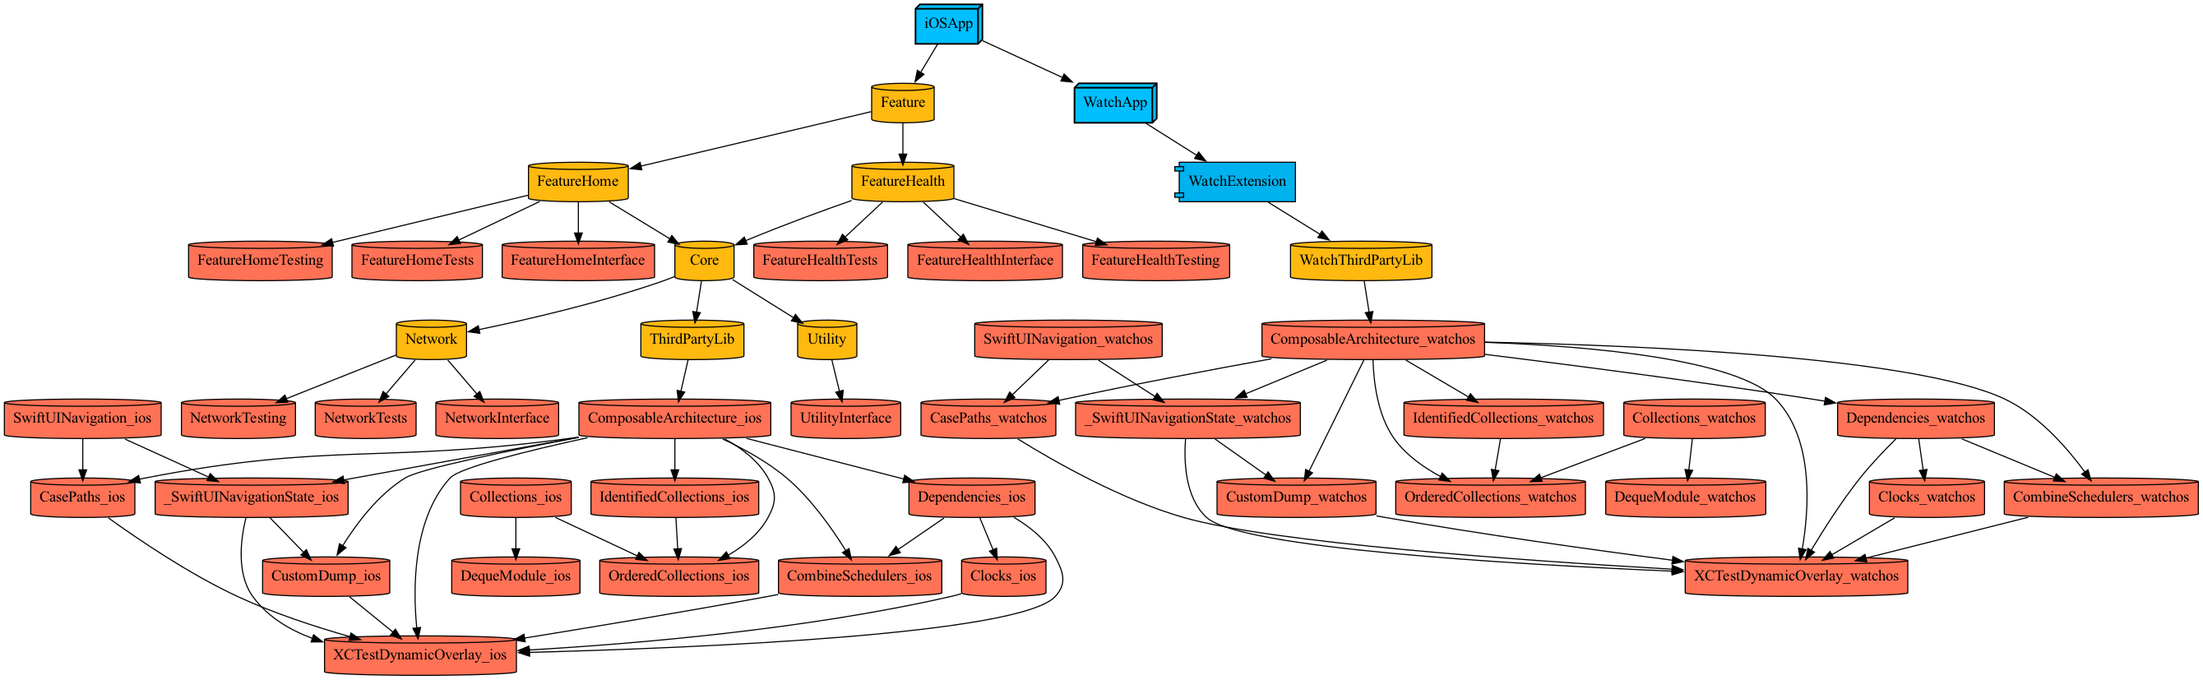
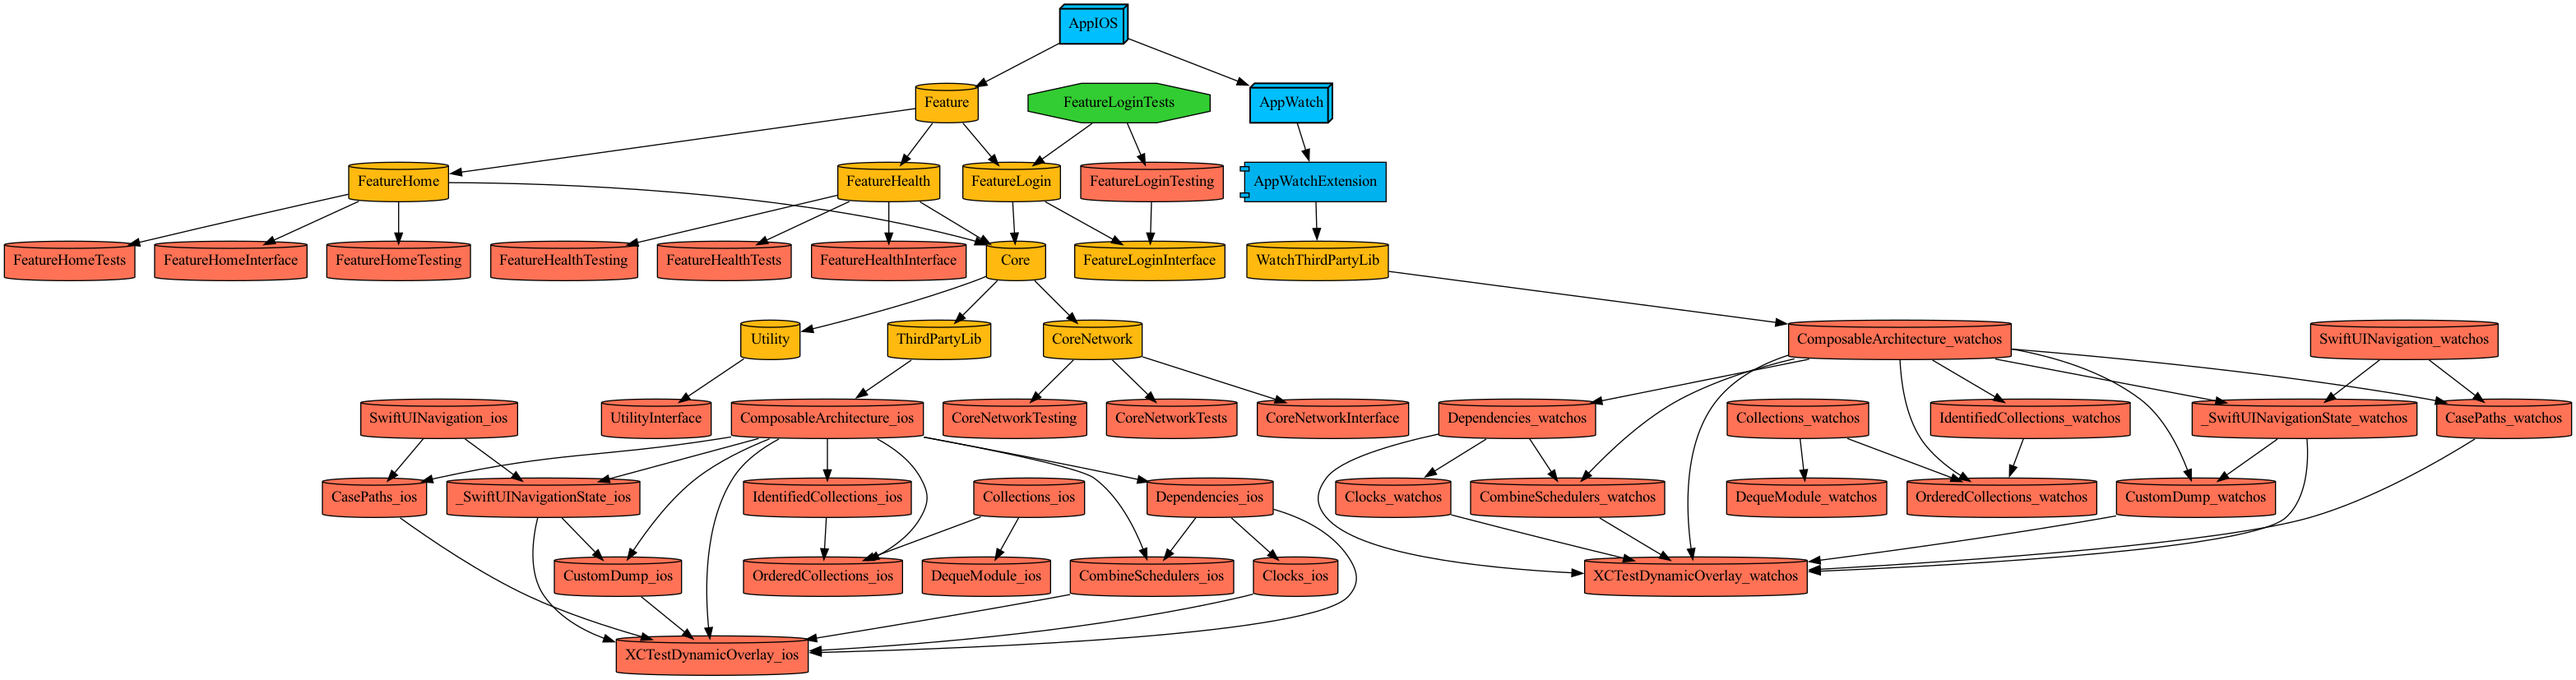
feat: module plugin으로 관리

Changed region(s): [[0.0, 0.0907, 1.0, 0.9976], [0.4028, 0.0, 0.4647, 0.0907], [0.1549, 0.4534, 0.2169, 0.5441]]

diff --git a/gather-move/Plugins/DependencyPlugin/ProjectDescriptionHelpers/GeneratedModules.swift b/gather-move/Plugins/DependencyPlugin/ProjectDescriptionHelpers/GeneratedModules.swift
@@ -6,13 +6,106 @@
 //
 
 import Foundation
+import ProjectDescription
 
-public enum AppModule: String, CaseIterable {
-  case iOS
-  case WatchOS
+public enum MicroModuleType: String {
+    case Source
+    case Interface
+    case Tests
+    case Testing
 }
 
-public enum CoreModule: String, CaseIterable {
-    case Network
-    case Utility
+public protocol ModuleType {
+    var moduleName: String { get }
+    associatedtype TargetType: RawRepresentable where TargetType.RawValue: StringProtocol
+    
+    func path(target: TargetType?, micro: MicroModuleType) -> Path
+    func name(target: TargetType?, micro: MicroModuleType) -> String
+    func bundleId(target: TargetType?, micro: MicroModuleType) -> String
+    func targetDependency(target: TargetType?, micro: MicroModuleType) -> TargetDependency
 }
+
+extension ModuleType {
+    public func path(target: TargetType? = nil, micro: MicroModuleType = .Source) -> Path {
+        guard let target = target else {
+            return .relativeToRoot("Projects/\(moduleName)")
+        }
+        
+        switch micro {
+        case .Source: /// ex: Projects/Feature/Health
+            return .relativeToRoot("Projects/\(moduleName)/\(target.rawValue)")
+            
+        default: /// ex: Projects/Feature/Health/Interface
+            return .relativeToRoot("Projects/\(moduleName)/\(target.rawValue)/\(micro.rawValue)")
+        }
+    }
+    
+    public func name(target: TargetType? = nil, micro: MicroModuleType = .Source) -> String {
+        guard let target = target else {
+            return "\(moduleName)" /// ex: Feature
+        }
+        
+        switch micro {
+        case .Source: /// ex: FeatureHealth
+            return "\(moduleName)\(target.rawValue)"
+            
+        default: /// ex: FeatureHealthInterface
+            return "\(moduleName)\(target.rawValue)\(micro.rawValue)"
+        }
+    }
+    
+    public func bundleId(target: TargetType?, micro: MicroModuleType = .Source) -> String {
+        guard let target = target else {
+            return "com.82.team.gathermove.\(self.name(target: target, micro: micro))"
+        }
+        
+        switch micro {
+        case .Source:
+            return "com.82team.gathermove.\(moduleName.lowercased()).\(target.rawValue.lowercased())"
+            
+        default:
+            return "com.82team.gathermove.\(moduleName.lowercased()).\(target.rawValue.lowercased()).\(micro.rawValue.lowercased())"
+        }
+    }
+    
+    // TODO: TargetDependency의 Extension으로 이동
+    public func targetDependency(target: TargetType? = nil, micro: MicroModuleType = .Source) -> TargetDependency {
+        guard let target = target else {
+            return .project(
+                target: self.name(target: target, micro: micro),
+                path: self.path(target: target, micro: micro)
+            )
+        }
+        
+        switch micro {
+        case .Source:
+            return .target(name: "\(moduleName)\(target.rawValue)")
+            
+        default:
+            return .target(name: "\(moduleName)\(target.rawValue)\(micro.rawValue)")
+        }
+    }
+}
+
+public class AppModuleType: ModuleType {
+    public let moduleName: String = "App"
+    
+    public enum TargetType: String {
+        case IOS
+        case Watch
+        case WatchExtension
+    }
+}
+
+public class FeatureModuleType: ModuleType {
+    public let moduleName: String = "Feature"
+    
+    public enum TargetType: String {
+        case Home
+        case Health
+        case Login
+    }
+}
+
+public let AppModule = AppModuleType()
+public let FeatureModule = FeatureModuleType()

diff --git a/gather-move/Projects/Feature/Login/Project.swift b/gather-move/Projects/Feature/Login/Project.swift
@@ -1,0 +1,64 @@
+//
+//  Project.swift
+//  ProjectDescriptionHelpers
+//
+//  Created by 송영모 on 2023/04/26.
+//
+
+import ProjectDescription
+import DependencyPlugin
+
+let targets: [Target] = [
+    .init(
+        name: "FeatureLogin",
+        platform: .iOS,
+        product: .framework,
+        bundleId: "com.feature.login",
+        infoPlist: .default,
+        sources: ["Sources/**"],
+        dependencies: [
+            .target(name: "FeatureLoginInterface"),
+            .project(target: "Core", path: .relativeToRoot("Projects/Core"))
+        ]
+    ),
+    .init(
+        name: "FeatureLoginTests",
+        platform: .iOS,
+        product: .unitTests,
+        bundleId: "com.feature.login.tests",
+        infoPlist: .default,
+        sources: ["Tests/Sources/**"],
+        dependencies: [
+            .target(name: "FeatureLogin"),
+            .target(name: "FeatureLoginTesting"),
+        ]
+    ),
+    .init(
+        name: "FeatureLoginTesting",
+        platform: .iOS,
+        product: .staticFramework,
+        bundleId: "com.feature.login.testing",
+        infoPlist: .default,
+        sources: ["Testing/Sources/**"],
+        dependencies: [
+            .target(name: "FeatureLoginInterface"),
+        ]
+    ),
+    .init(
+        name: "FeatureLoginInterface",
+        platform: .iOS,
+        product: .framework,
+        bundleId: "com.feature.login.interface",
+        infoPlist: .default,
+        sources: ["Interface/Sources/**"],
+        dependencies: [
+            
+        ]
+    ),
+]
+
+let project: Project = .init(
+    name: "FeatureLogin",
+    targets: targets
+)
+

diff --git a/gather-move/Projects/App/Project.swift b/gather-move/Projects/App/Project.swift
@@ -11,7 +11,7 @@ import DependencyPlugin
 
 let targets: [Target] = [
     .init(
-        name: "iOSApp",
+        name: AppModule.name(target: .IOS, micro: .Source),
         platform: .iOS,
         product: .app,
         bundleId: "com.82team.gathermove",
@@ -27,22 +27,22 @@ let targets: [Target] = [
             ]),
         sources: "Sources/**",
         dependencies: [
-            .target(name: "WatchApp"),
-            .project(target: "Feature", path: .relativeToRoot("Projects/Feature"))
+            AppModule.targetDependency(target: .Watch, micro: .Source),
+            FeatureModule.targetDependency()
         ]
     ),
     .init(
-        name: "WatchApp",
+        name: AppModule.name(target: .Watch, micro: .Source),
         platform: .watchOS,
         product: .watch2App,
         bundleId: "com.82team.gathermove.watchkit",
         infoPlist: .default,
         dependencies: [
-            .target(name: "WatchExtension"),
+            AppModule.targetDependency(target: .WatchExtension, micro: .Source),
         ]
     ),
     .init(
-        name: "WatchExtension",
+        name: AppModule.name(target: .WatchExtension, micro: .Source),
         platform: .watchOS,
         product: .watch2Extension,
         bundleId: "com.82team.gathermove.watchkit.extension",
@@ -55,6 +55,6 @@ let targets: [Target] = [
 ]
 
 let project: Project = .init(
-    name: "App",
+    name: AppModule.moduleName,
     targets: targets
 )

diff --git a/gather-move/Projects/Domain/Sources/ContentView.swift b/gather-move/Projects/Domain/Sources/ContentView.swift
@@ -1,0 +1,28 @@
+//
+//  ContentView.swift
+//  Feature
+//
+//  Created by 송영모 on 2023/04/26.
+//
+
+import SwiftUI
+
+public struct ContentView: View {
+    public init() {}
+    
+    public var body: some View {
+        TabView {
+            Text("Another Tab")
+                .tabItem {
+                    Image(systemName: "2.square.fill")
+                    Text("Second")
+                }
+        }
+    }
+}
+
+struct ContentView_Previews: PreviewProvider {
+    static var previews: some View {
+        ContentView()
+    }
+}

diff --git a/gather-move/Projects/Domain/Project.swift b/gather-move/Projects/Domain/Project.swift
@@ -1,0 +1,28 @@
+//
+//  Project.swift
+//  ProjectDescriptionHelpers
+//
+//  Created by 송영모 on 2023/04/26.
+//
+
+import ProjectDescription
+import DependencyPlugin
+
+let targets: [Target] = [
+    .init(
+        name: "Domain",
+        platform: .iOS,
+        product: .framework,
+        bundleId: "com.domain",
+        infoPlist: .default,
+        sources: ["Sources/**"],
+        dependencies: [
+            
+        ]
+    )
+]
+
+let project: Project = .init(
+    name: "Domain",
+    targets: targets
+)

diff --git a/gather-move/Projects/Feature/Project.swift b/gather-move/Projects/Feature/Project.swift
@@ -17,6 +17,7 @@ let targets: [Target] = [
         infoPlist: .default,
         sources: ["Sources/**"],
         dependencies: [
+            .project(target: "FeatureLogin", path: .relativeToCurrentFile("Login")),
             .project(target: "FeatureHome", path: .relativeToCurrentFile("Home")),
             .project(target: "FeatureHealth", path: .relativeToCurrentFile("Health"))
         ]

diff --git a/gather-move/Projects/Feature/Login/Interface/Sources/HomView.swift b/gather-move/Projects/Feature/Login/Interface/Sources/HomView.swift
@@ -1,0 +1,20 @@
+//
+//  HomView.swift
+//  FeatureHomeInterface
+//
+//  Created by 송영모 on 2023/04/26.
+//
+
+import SwiftUI
+
+struct HomView: View {
+    var body: some View {
+        Text(/*@START_MENU_TOKEN@*/"Hello, World!"/*@END_MENU_TOKEN@*/)
+    }
+}
+
+struct HomView_Previews: PreviewProvider {
+    static var previews: some View {
+        HomView()
+    }
+}

diff --git a/gather-move/Projects/Feature/Login/Sources/HomeView.swift b/gather-move/Projects/Feature/Login/Sources/HomeView.swift
@@ -1,0 +1,20 @@
+//
+//  HomeView.swift
+//  FeatureHome
+//
+//  Created by 송영모 on 2023/04/26.
+//
+
+import SwiftUI
+
+struct HomeView: View {
+    var body: some View {
+        Text(/*@START_MENU_TOKEN@*/"Hello, World!"/*@END_MENU_TOKEN@*/)
+    }
+}
+
+struct HomeView_Previews: PreviewProvider {
+    static var previews: some View {
+        HomeView()
+    }
+}

diff --git a/gather-move/Projects/Domain/Home/Project.swift b/gather-move/Projects/Domain/Home/Project.swift
@@ -1,0 +1,8 @@
+//
+//  Project.swift
+//  ProjectDescriptionHelpers
+//
+//  Created by 송영모 on 2023/04/26.
+//
+
+import Foundation

diff --git a/gather-move/Projects/Feature/Login/Interface/Sources/HomeInterfaceSample.swift b/gather-move/Projects/Feature/Login/Interface/Sources/HomeInterfaceSample.swift
@@ -1,0 +1,8 @@
+//
+//  HomeInterfaceSample.swift
+//  FeatureHome
+//
+//  Created by 송영모 on 2023/04/26.
+//
+
+import Foundation

diff --git a/gather-move/Projects/Feature/Login/Testing/Sources/HomeTestingSample.swift b/gather-move/Projects/Feature/Login/Testing/Sources/HomeTestingSample.swift
@@ -1,0 +1,8 @@
+//
+//  HomeTestingSample.swift
+//  FeatureHome
+//
+//  Created by 송영모 on 2023/04/26.
+//
+
+import Foundation

diff --git a/gather-move/Projects/Feature/Login/Tests/Sources/HomeTestsSample.swift b/gather-move/Projects/Feature/Login/Tests/Sources/HomeTestsSample.swift
@@ -1,0 +1,8 @@
+//
+//  HomeTestsSample.swift
+//  FeatureHome
+//
+//  Created by 송영모 on 2023/04/26.
+//
+
+import Foundation
